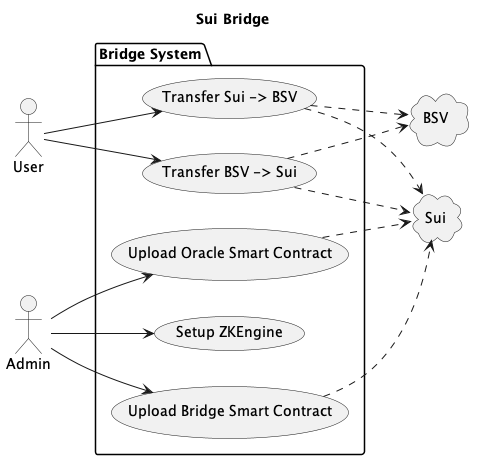
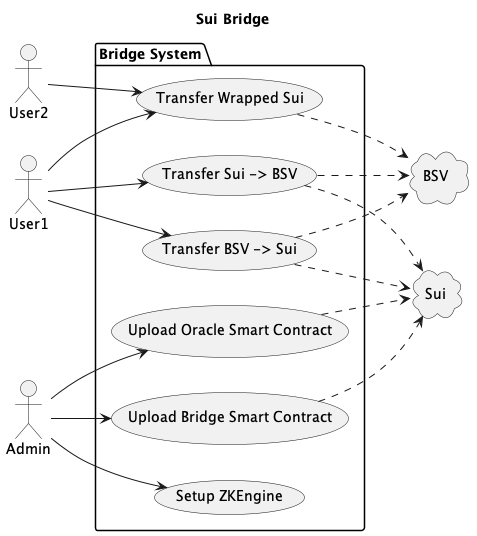
Update following review

diff --git a/docs/system_design.md b/docs/system_design.md
@@ -10,7 +10,11 @@ This diagram captures the key use cases supported by this project.
 ![Use Cases](diagrams/use-case.png)
 
 
-The `Admin` performs `Setup ZKEngine` and `Upload Bridge Smart Contract` on initial project setup.
+The `Admin` performs on initial project setup:
+1) `Upload Oracle Smart Contract` 
+2) `Upload Bridge Smart Contract` , note this is dependent on 1) 
+3) `Setup ZKEngine`
+
 
 
 ## Transfer Sui to BSV
@@ -24,6 +28,21 @@ Note that the `Check Sui` stage, checks
 * Format of ...
 
 
+## Transfer Wrapped Sui
+
+This diagram shows the interactions required to Transfer Wrapped Sui on BSV between Users.
+
+![Transfer Wrapped Sui](diagrams/sequence-wrapped-sui-transfer.png)
+
+Note that the `Check Sui` stage is not currently implemented.
 
 
-## Transfer BSV to Sui
+## Transfer BSV to Sui (Unlocking Sui)
+
+This diagram shows the interactions required to Unlock Sui.
+
+![Transfer BSV to Sui](diagrams/sequence-sui-to-bsv.png)
+
+
+This currently takes a BSV tx of 330K, however Sui currently is limited to objects of 256K.
+
